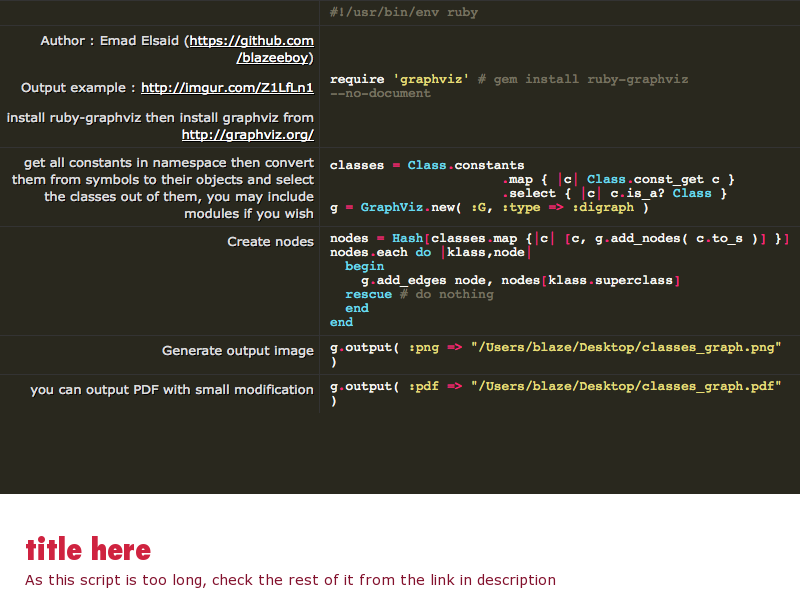
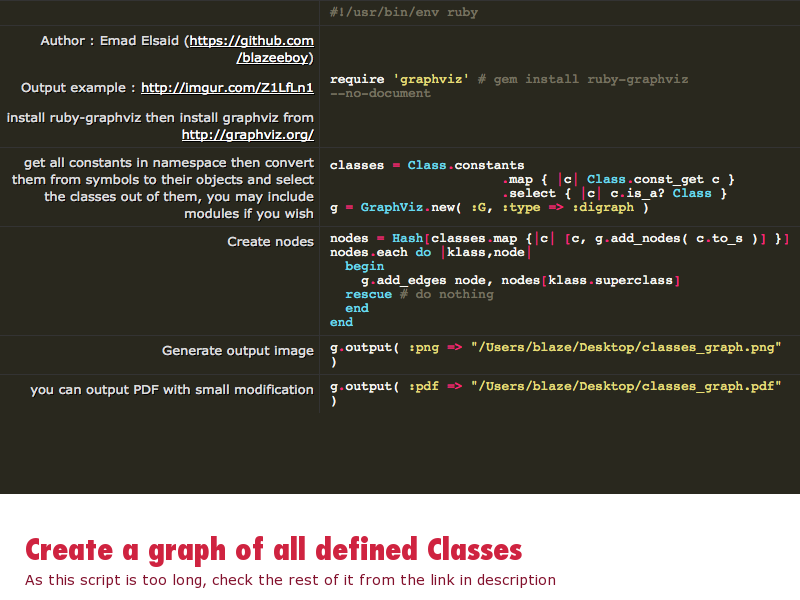
updating image

Changed region(s): [[0.0312, 0.87, 0.6562, 0.96]]

diff --git a/2014-4-28/README.md b/2014-4-28/README.md
@@ -1,4 +1,4 @@
-# title here
+# Create a graph of all defined Classes
 
 
 ```ruby
